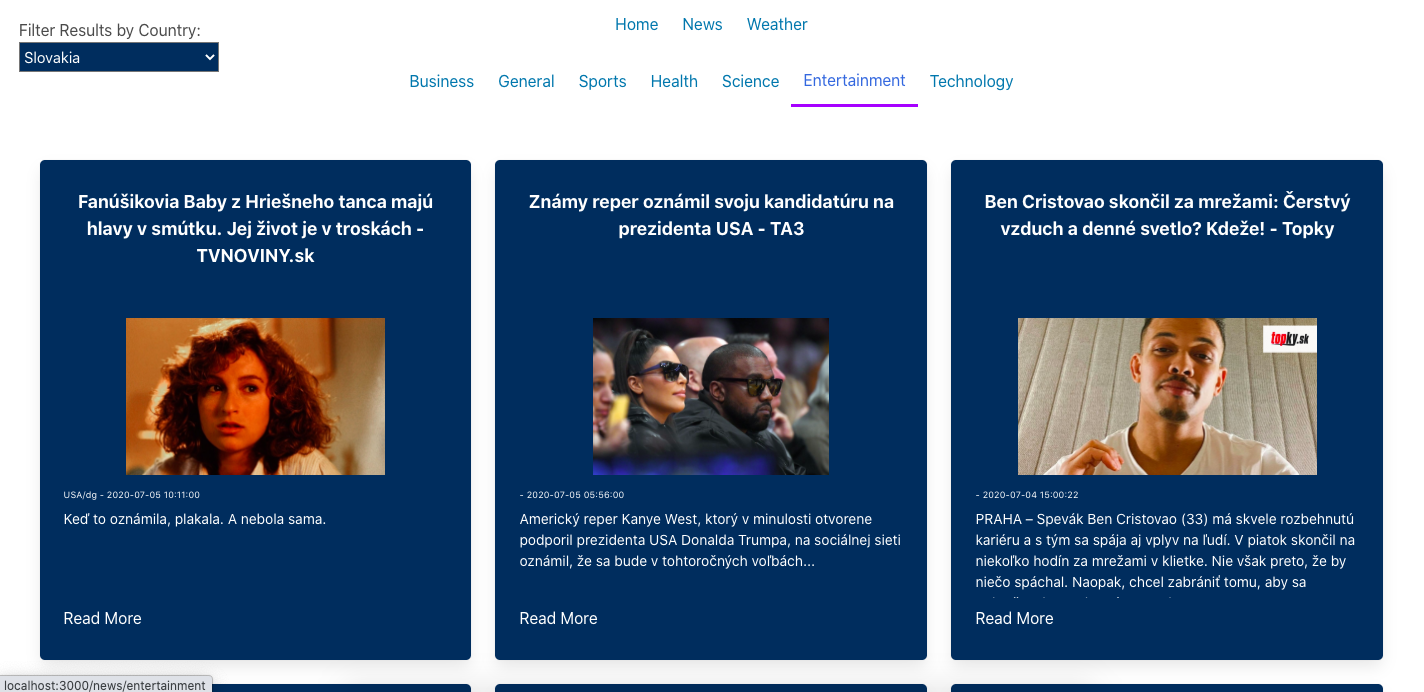
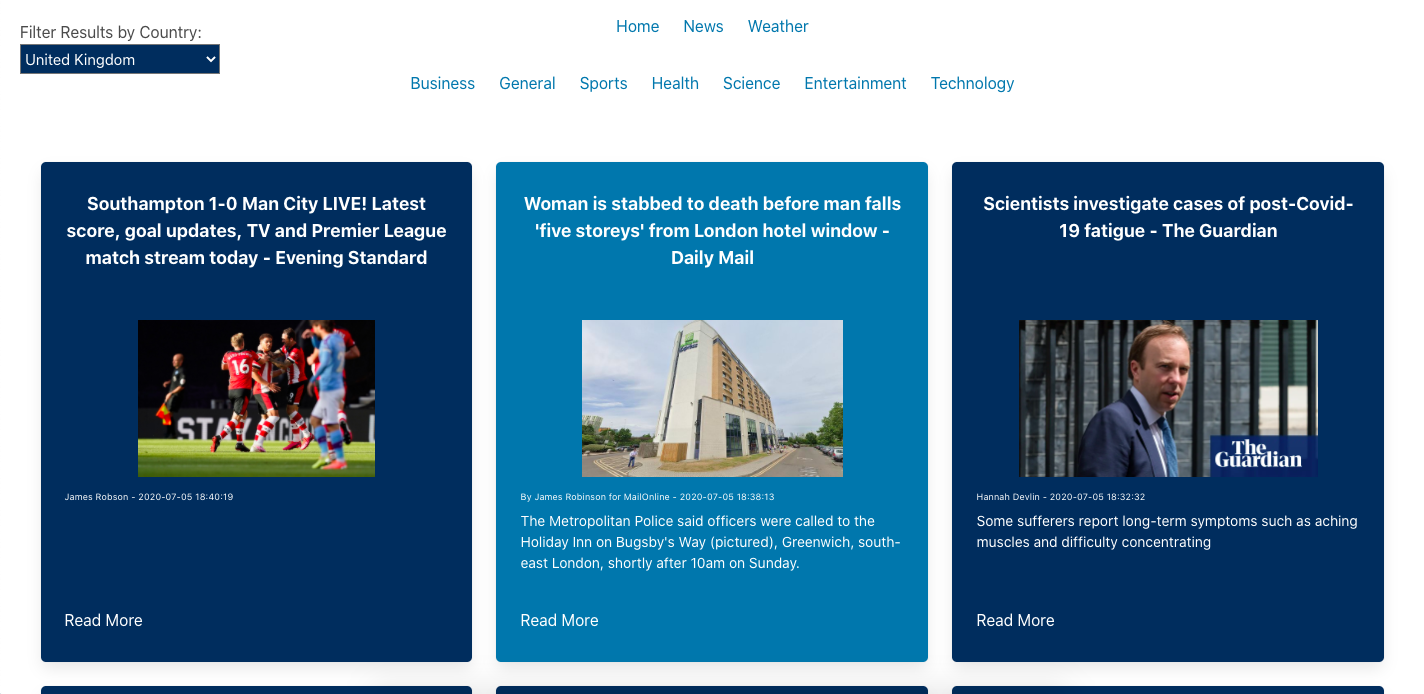
readme

diff --git a/README.md b/README.md
@@ -1,4 +1,4 @@
-# ** SEI Project two: Reactathon**
+# ** SEI Project two: News and Weather**
 
 ## https://news-worldwide-ykbhrn.netlify.app/
 
@@ -8,7 +8,86 @@ Project 2 was my first experience of pair coding. My partner and I had to create
 
 Once built our app was deployed using **Netlify**
 
-![Homepage screenshot](images/newspage.png)
-![News screenshot](images/home.png)
+![News screenshot](images/newspage.png)
 
 -------------------------
+
+## **Brief.**
+
+Use at least one public API into a React application to create a fun or useful product.
+
+-------------------------
+
+## **Technologies used.**
+
+#### Front End:
+* **React**
+* **Axios**
+* Bulma
+* SCSS
+* React loader spinner
+* React router dom
+
+#### Dev Tools:
+
+* Yarn
+* VScode 
+* Insomnia
+* Git
+* Github
+* Google Chrome dev tools
+* Eslint
+* Netlify
+
+
+-------------------------
+
+## **Approach.**
+
+#### APIs:
+
+For our app we decided to use 2 seperate **APIs** to give a more well rounded experience. For both we followed the **documentation** on the *API's* website. We used **Yarn** to install the **Axios** dependency to use our request and return responses in *JSON* rather than using fetch then having to convert to JSON. The structure of the *APIs* required us to pass arguments to our Axios requests to enable specific queries.
+
+![Screenshot of API page](images/apis.png)
+
+#### Components and general structure:
+
+##### News:
+
+The structure of the app was created using **React**. We used the *Browser Router, Switch and Route* from the **React-router-dom** package to lay out navigation paths for the app. I created a main Nav bar and a sub-Navbar, available only under the news heading on the main nav bar. We also decided to exclude navbar and footer from the home page meaning we had to import it, when necessary, rather than putting it in the App.js before the *switch and routes*
+
+![Screenshot of Paths](images/paths.png)
+
+We used our sub-navbar to build on our main headlines page and use the **NewsAPI**'s ability to take specific categories and add complexity to our app. 
+
+In addition to specific news categories the **API** also offered a range of news in different countries (and languages). I used a *select* to make a drop down to offer news from around the world. I then used **React's** *onChange* event handler to set the state then pass the user's selected value to the *Axios* request. This enabled our app to display, for example, the *Entertainment news* in *Slovakia* (as seen below).
+
+![News From Slovakia](images/newspageSlovakia.png)
+![Code for on change](images/codeOnChange.png)
+
+#### Weather:
+
+We followed a very similar journey setting up our **Weather section**. We used *event listeners* to wait for the user to input their City/Town. **onSubmit** we passed the City to the *Axios* request then set state with the response. Once the state was set we were able to select the data we wanted to display from the *API*. 
+
+Unfortunately, the free version of the *API* only allowed us to display the current weather and not future weather. This was disappointing but we made the most of the resources we were provided with. 
+
+![Weather in Madrid](images/weatherMadrid.png)
+
+#### Design
+
+We made the decision to make the style minimalistic across the app. We used **Bulma** for our initial lay out. However, once we had all functionality working we deviated from *Bulma* and used **SCSS** to adapt our design. *Keyframes* were used to animate the home page. 
+
+
+-------------------------
+
+## **Wins and Challenges.**
+
+#### Wins:
+
+Biggest win from the project was working in pair with my partner Ed. Our cooperation was very smooth, we were very effective and I enjoyed the process.
+
+#### Challenges:
+
+As we didn't have a lot of experiences with external APIs, our biggest challenge was finding the right api, learn how to use it and successfully implement it in the project.
+
+------------------------
